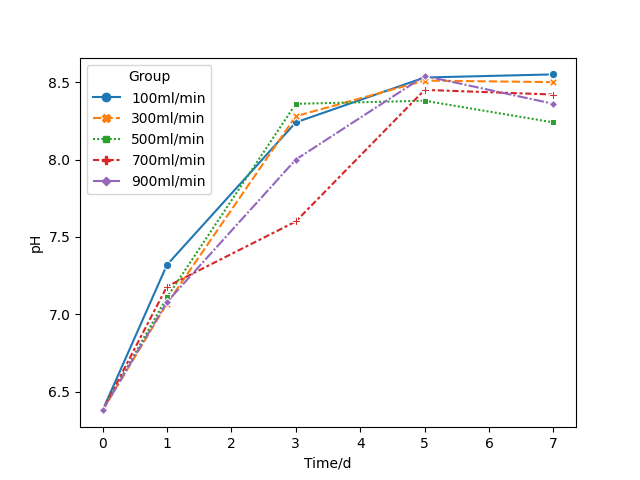
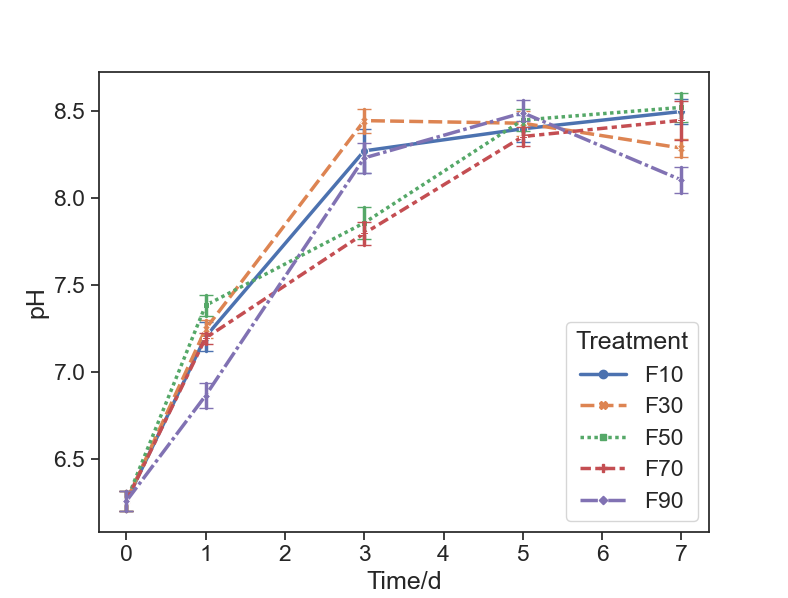
5.12

diff --git a/pH.py b/pH.py
@@ -29,12 +29,16 @@ def myerrorbar(data, x, y, err, color, label=None, **kws):
 
 data = pandas.read_csv('data1/pH.csv')
 
-ax = sns.FacetGrid(data, row="row", col="col",
-                   hue="Treatment")
-
+sns.set(style="ticks", font_scale=1.5, rc={"lines.linewidth":2.5})
+# ax = sns.FacetGrid(data, row="row", col="col",hue="Treatment")
+g = sns.lineplot(
+    data=data, x="Time/d", y='pH', hue='Treatment', err_style="bars", errorbar='ci',style='Treatment', markers=True, err_kws={'capsize':5}
+)
+# g.set_xticklabels(['0','1','3','5','7'])
 # ax = sns.lineplot(x="Time/d", y='pH', hue='Treatment', style='Treatment',
 #                   markers=True, data=data)
-ax.map_dataframe(myerrorbar, x="Time/d", y="pH", err='err')
-ax.set_titles(col_template="{col_name}", row_template="{row_name}")
-ax.add_legend()
+# ax.map_dataframe(myerrorbar, x="Time/d", y="pH", err='err')
+# ax.map(sns.lineplot, x="Time/d", y='pH', hue='Treatment', style='Treatment', markers=True, data=data)
+# ax.set_titles(col_template="{col_name}", row_template="{row_name}")
+# ax.add_legend()
 plt.show()
